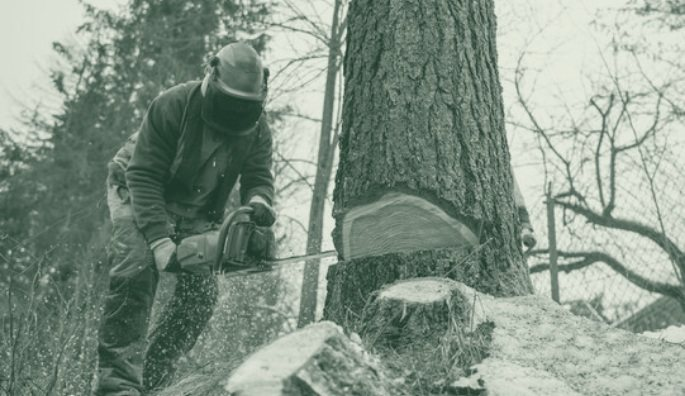
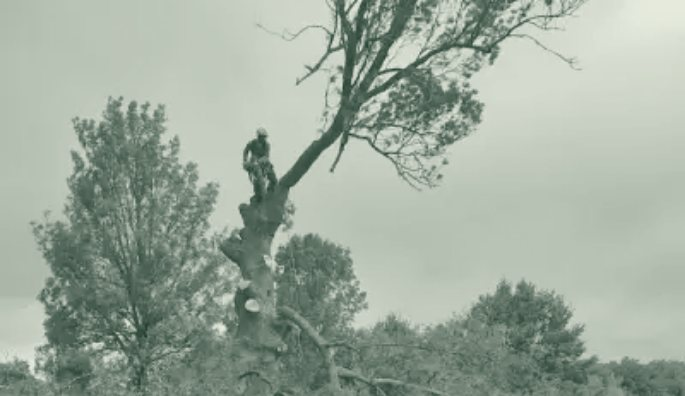
Services : photos de Léon pour l'abattage et le démontage
Remplace les deux photos sans licence par des photos de chantiers de Foix Élagage.

diff --git a/index.html b/index.html
@@ -95,13 +95,13 @@
           <ul class="tags"><li>Taille de haie</li><li>Taille de formation</li><li>Taille de cohabitation</li><li>Taille de sécurisation</li></ul>
         </article>
         <article class="svc reveal">
-          <div class="svc-pic"><img src="/assets/img/service-abattage.jpg" alt="Abattage d'un arbre à la tronçonneuse avec entaille directionnelle" width="685" height="396" loading="lazy"></div>
+          <div class="svc-pic"><img src="/assets/img/service-abattage.jpg" alt="Élagueur en haut d'un frêne lors d'un chantier à Auch" width="685" height="396" loading="lazy"></div>
           <h3>Abattage</h3>
           <p>Chute de l'arbre dirigée et maîtrisée, quand la place permet de le faire tomber en toute sécurité.</p>
           <ul class="tags"><li>Entaille directionnelle</li><li>Coin et merlin</li><li>Système de cordes</li></ul>
         </article>
         <article class="svc reveal">
-          <div class="svc-pic"><img src="/assets/img/service-demontage.jpg" alt="Démontage d'un arbre : un tronçon descendu à la corde" width="685" height="396" loading="lazy"></div>
+          <div class="svc-pic"><img src="/assets/img/service-demontage.jpg" alt="Démontage d'un chêne à Auch, élagueur encordé dans l'arbre" width="685" height="396" loading="lazy"></div>
           <h3>Démontage</h3>
           <p>Arbre trop près de la maison, d'une ligne ou dans un jardin étroit ? Il est retiré morceau par morceau, arbre debout.</p>
           <ul class="tags"><li>Retrait de la couronne</li><li>Démontage complet</li></ul>
